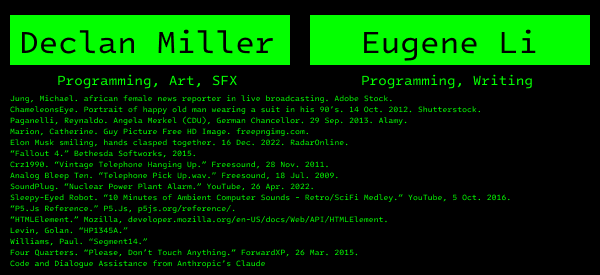
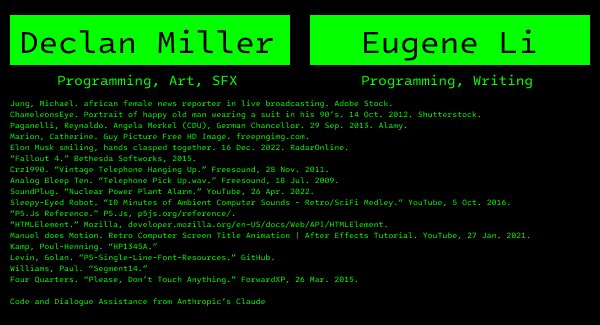
i cant believe its another credits update

diff --git a/Credits.js b/Credits.js
@@ -4,18 +4,18 @@ function credits(c) {
   }
   
   c.setup = function() {
-    panel = c.createCanvas(600, 300);
+    panel = c.createCanvas(600, 350);
     
     panel.position(
       computer.location.x + currentScene.width / 2 - c.width / 2,
       computer.location.y + currentScene.height / 2 - c.height / 2,
     );
     
-    c.exit = new Button(`X`, 345, -184, 25, 25, c);
+    c.exit = new Button(`X`, 345, -215.25, 25, 25, c);
     c.exit.setSize(0.8);
     c.exit.setDisplacement(2, 9);
 
-    c.header = new Button(`Credits`, -300, -150, 600, 25, c);
+    c.header = new Button(`Credits`, -300, -175, 600, 25, c);
     //o.header.setSize();
     c.header.setDisplacement(0, 8);
     
@@ -30,7 +30,7 @@ function credits(c) {
     c.stroke(0, 255, 0);
     c.noFill();
     c.strokeWeight(1);
-    c.rect(0, 0, 600, 300);
+    c.rect(0, 0, 600, 350);
     
     c.cursorChange();
   }
